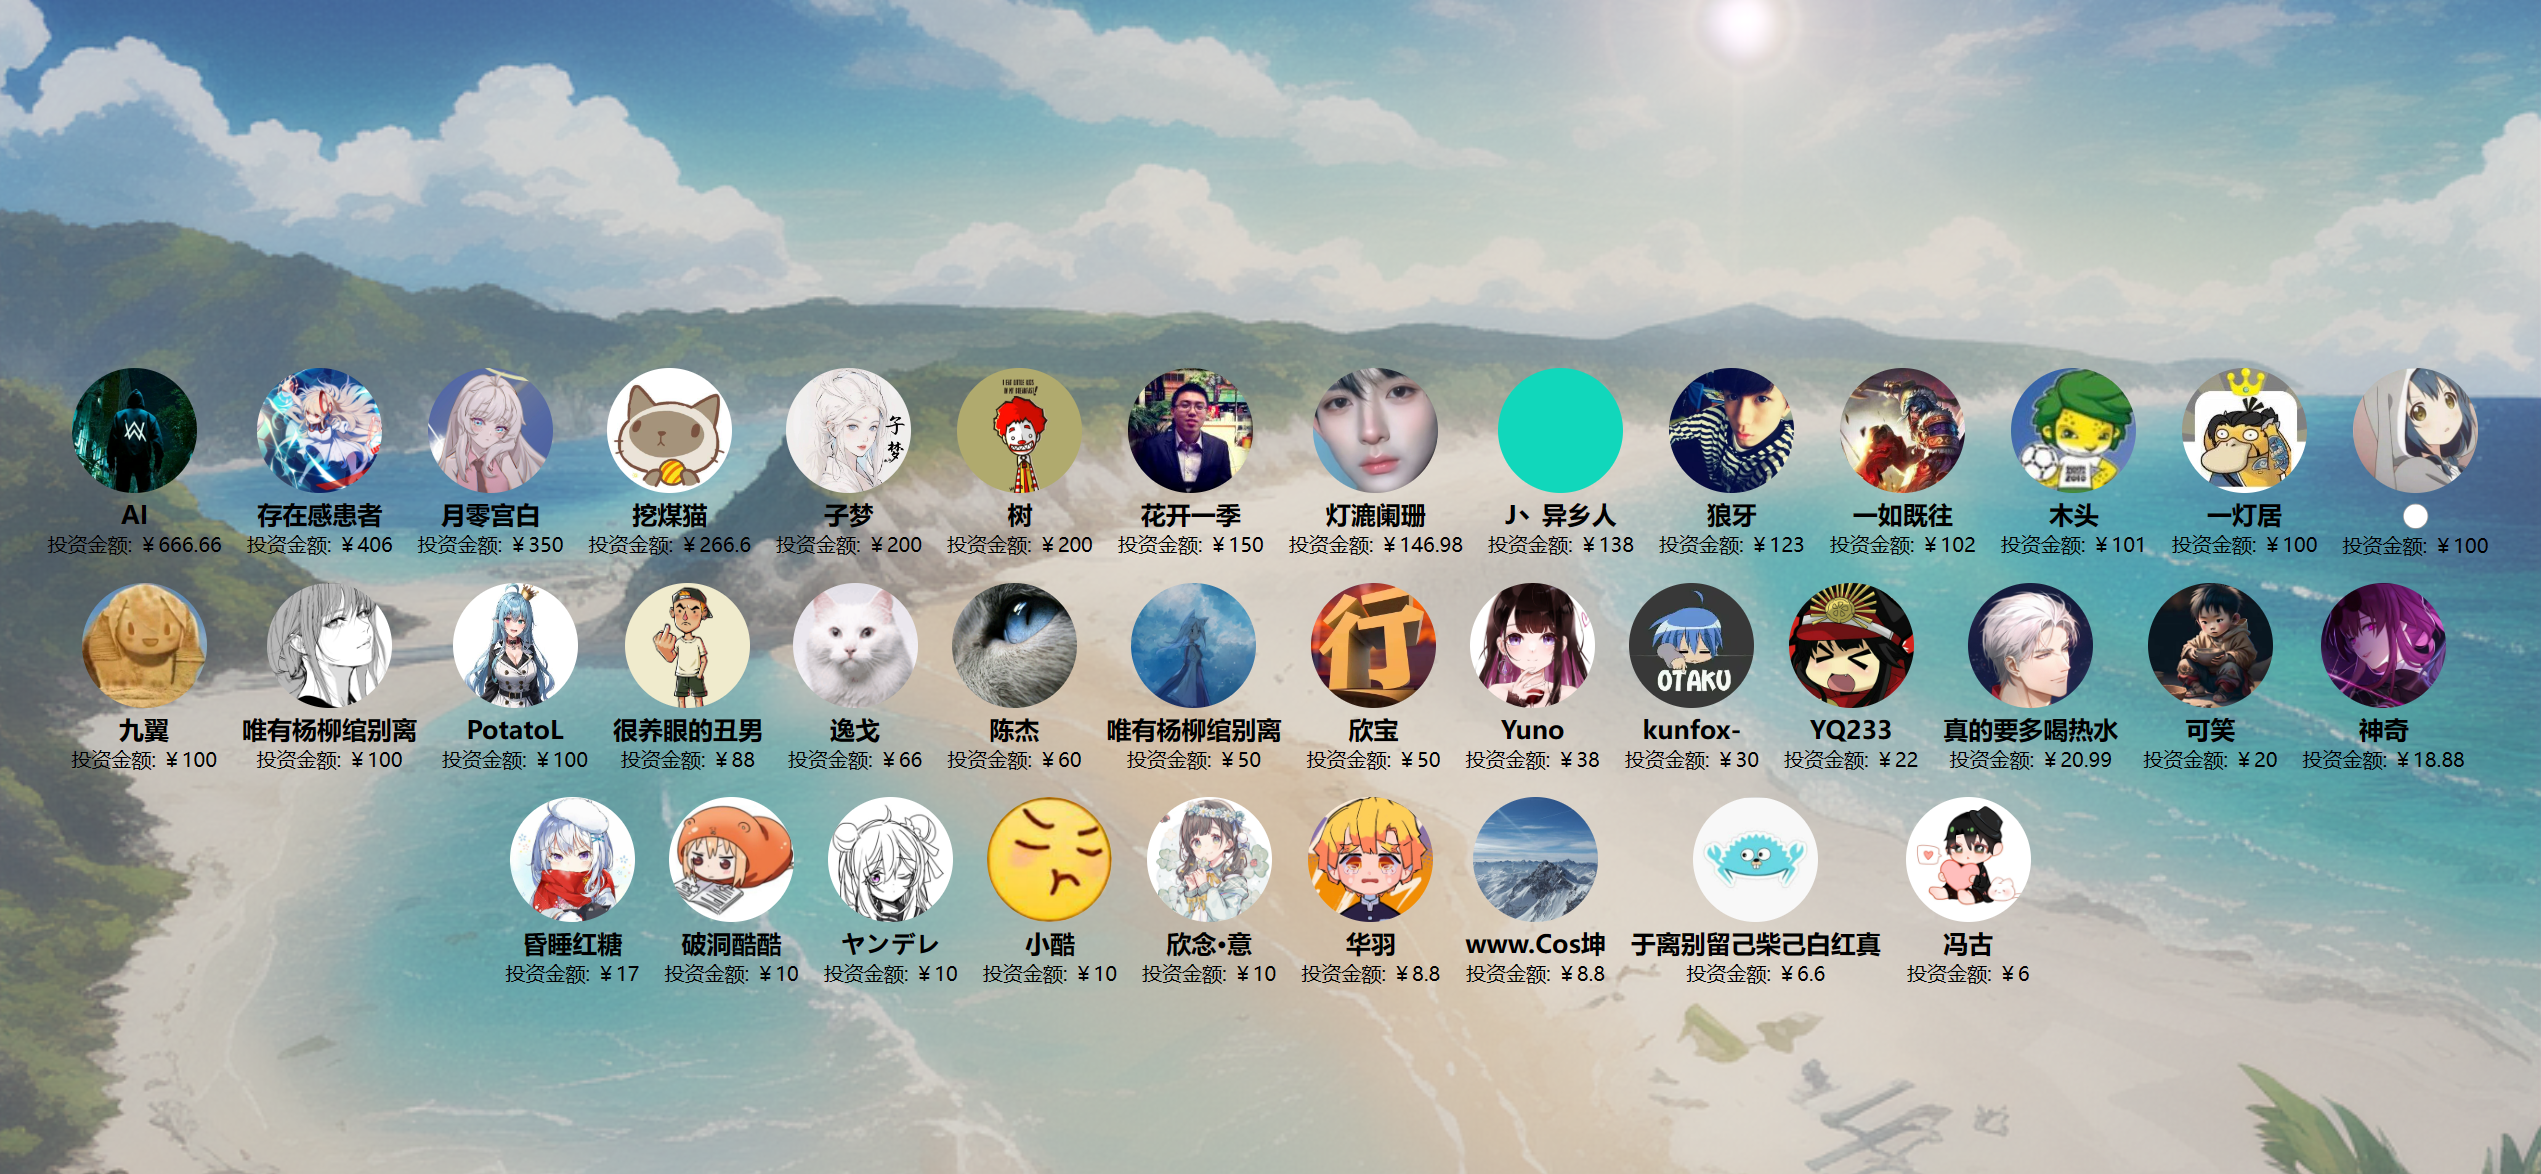
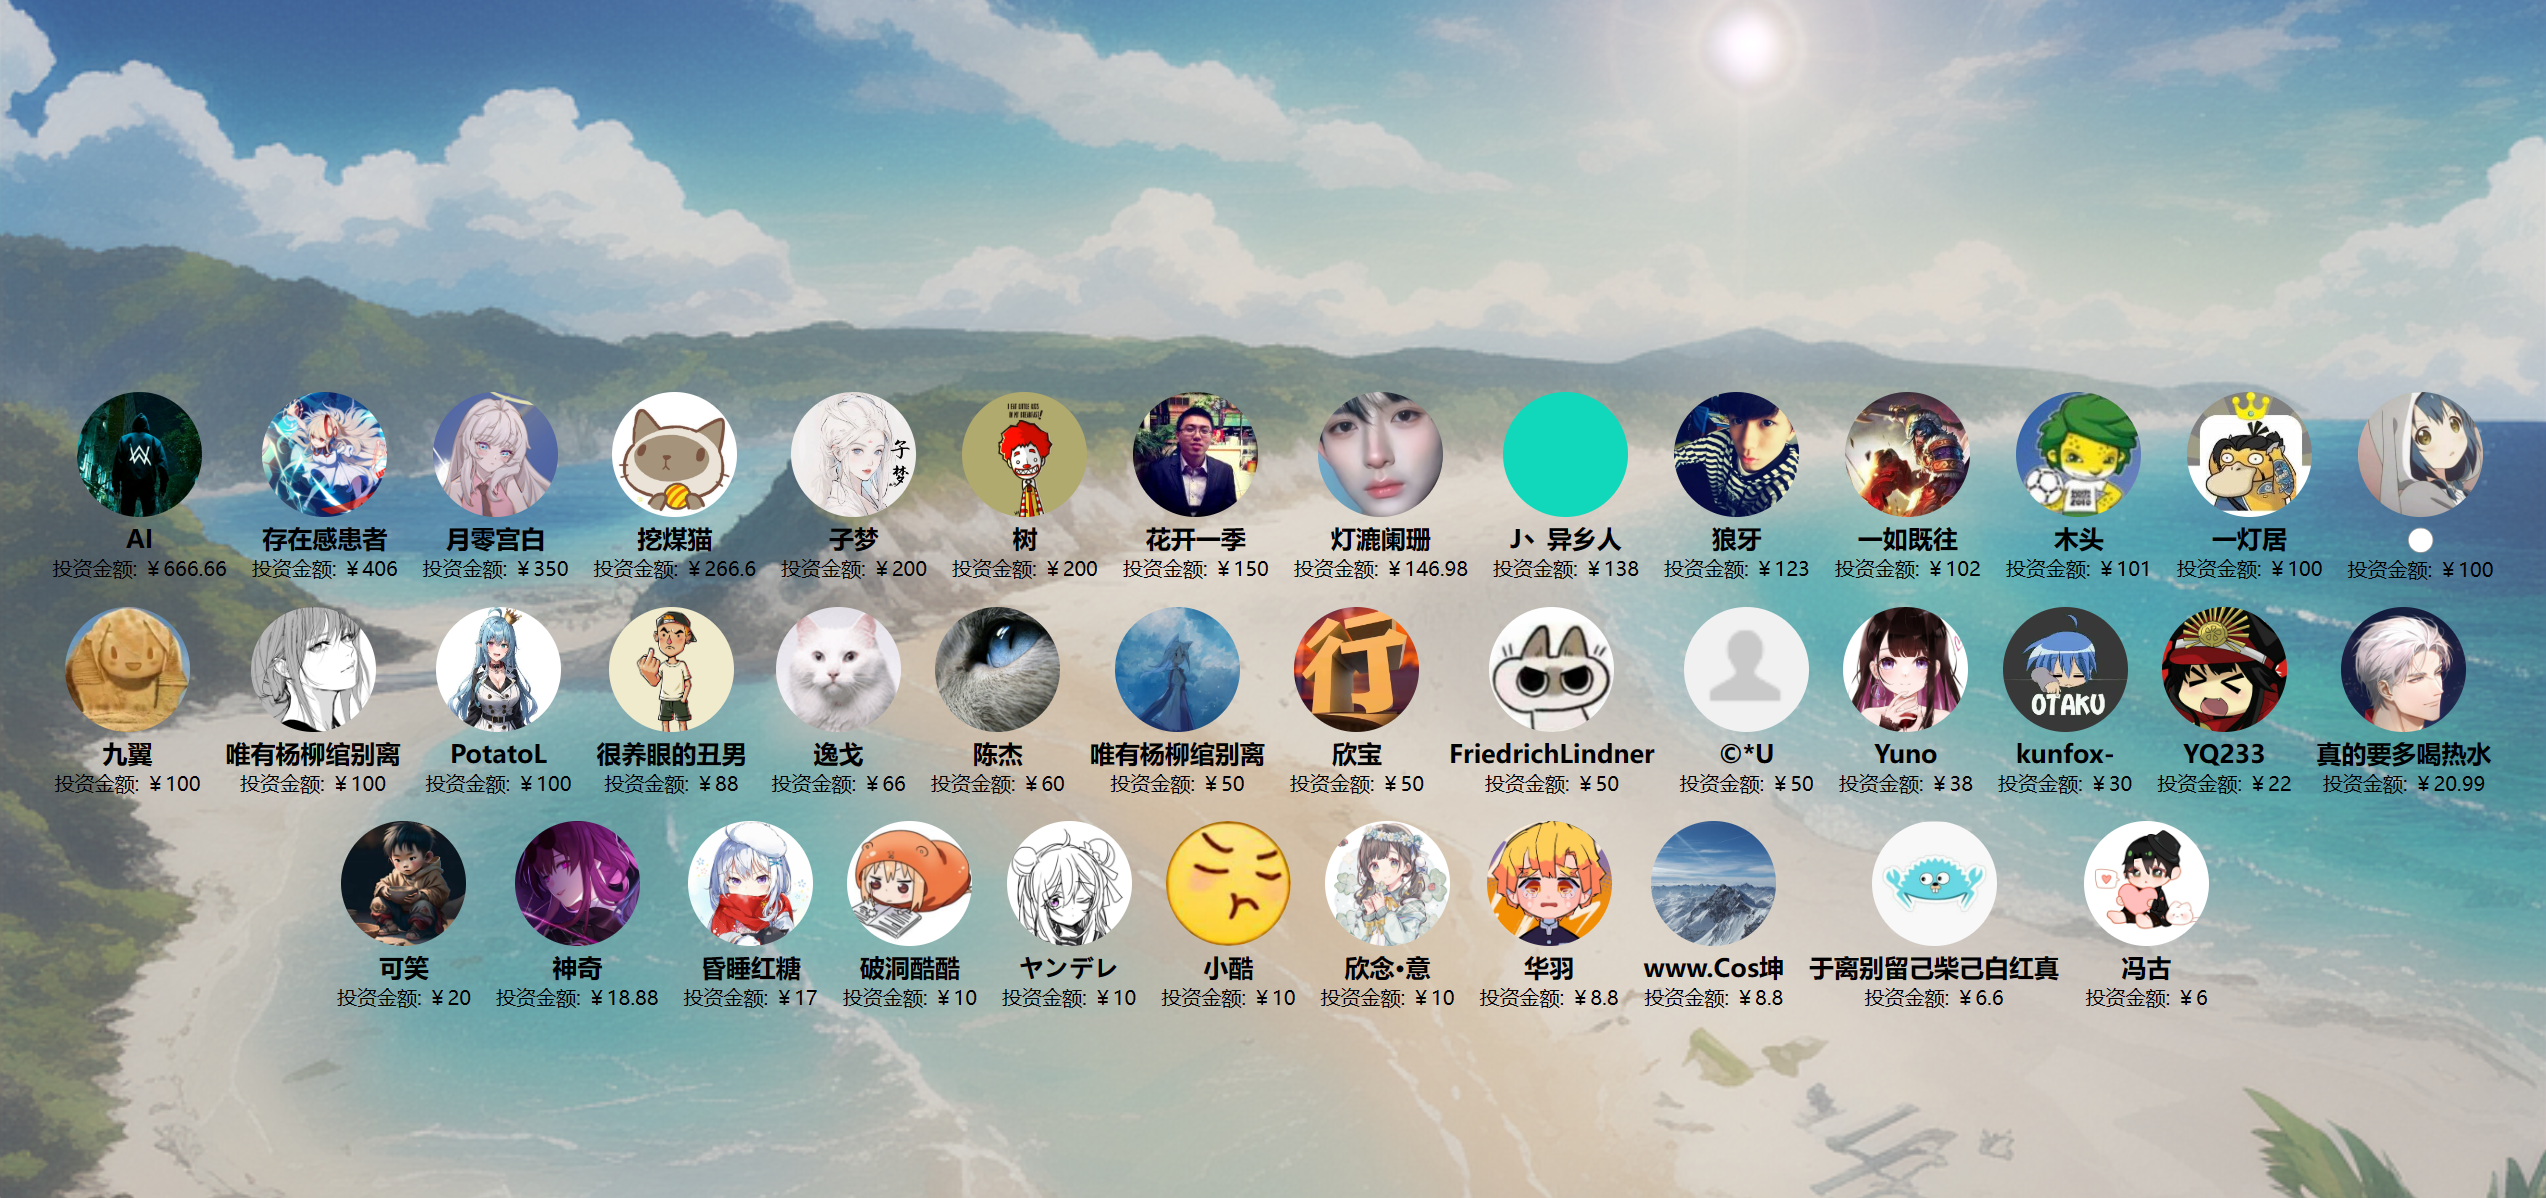
更新投资人信息

diff --git a/docs/投资人/index.html b/docs/投资人/index.html
@@ -162,6 +162,16 @@
             amount: "￥50"
         },
         {
+            name: "FriedrichLindner",
+            avatar: "https://images.cnblogs.com/cnblogs_com/ikaros-521/2328032/o_230923093032_QQ%E5%9B%BE%E7%89%8720230923172945.jpg",
+            amount: "￥50"
+        },
+        {
+            name: "©*U",
+            avatar: "https://images.cnblogs.com/cnblogs_com/ikaros-521/2328032/o_230923093032_QQ%E5%9B%BE%E7%89%8720230923172927.png",
+            amount: "￥50"
+        },
+        {
             name: "Yuno",
             avatar: "https://images.cnblogs.com/cnblogs_com/ikaros-521/2328032/o_230719132530_QQ%E5%9B%BE%E7%89%8720230719212024.jpg",
             amount: "￥38"
